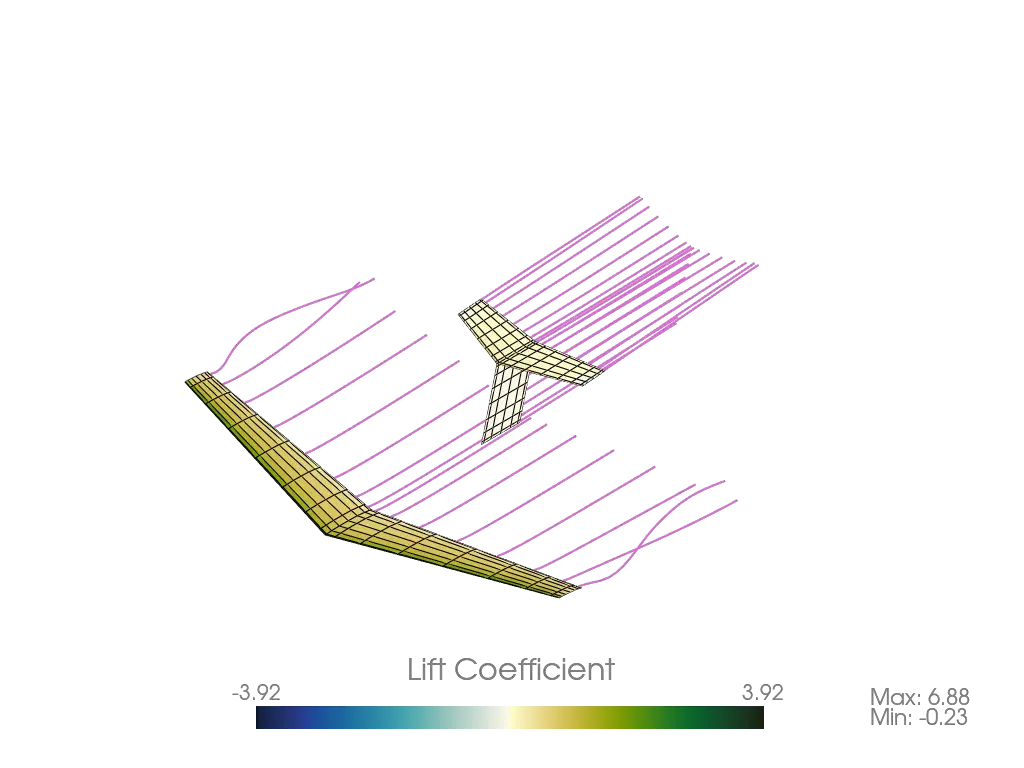
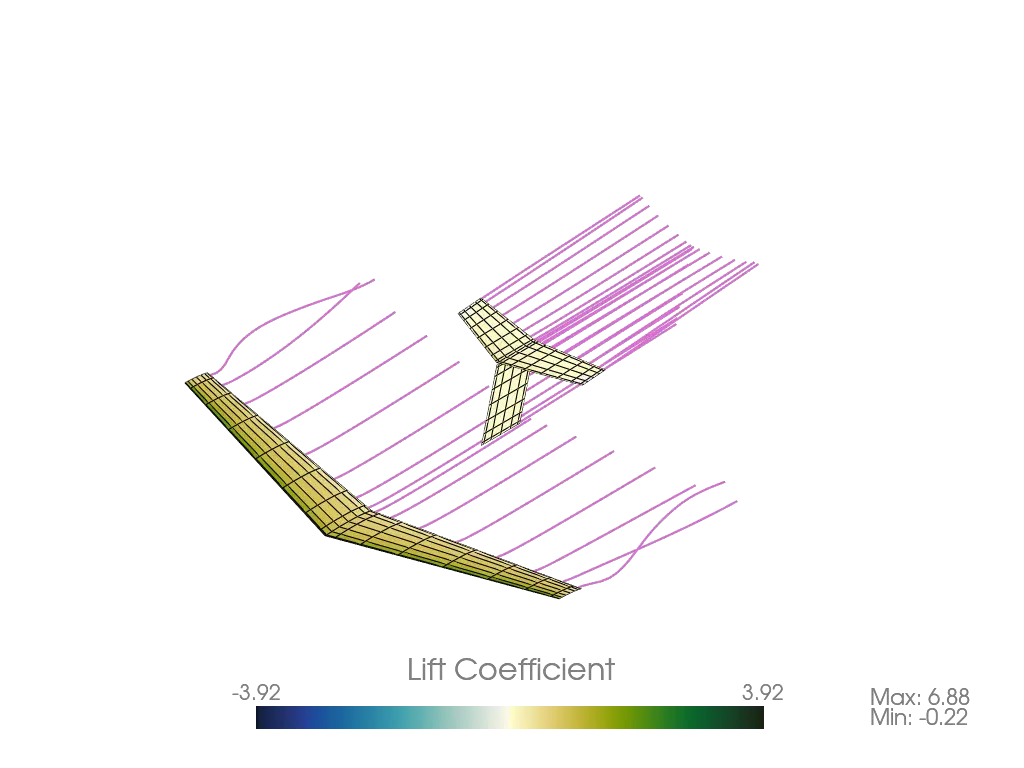
Shift horizontal stabilizer to avoid singularities

diff --git a/examples/steady_ring_vortex_lattice_method_solver.py b/examples/steady_ring_vortex_lattice_method_solver.py
@@ -99,7 +99,7 @@ example_airplane = ps.geometry.airplane.Airplane(
                 ),
             ],
             name="Horizontal Stabilizer",
-            Ler_Gs_Cgs=(5.5, 0.0, 2.0),
+            Ler_Gs_Cgs=(5.5, 0.0, 2.05),
             angles_Gs_to_Wn_ixyz=(0.0, 0.0, 0.0),
             symmetric=True,
             mirror_only=False,
